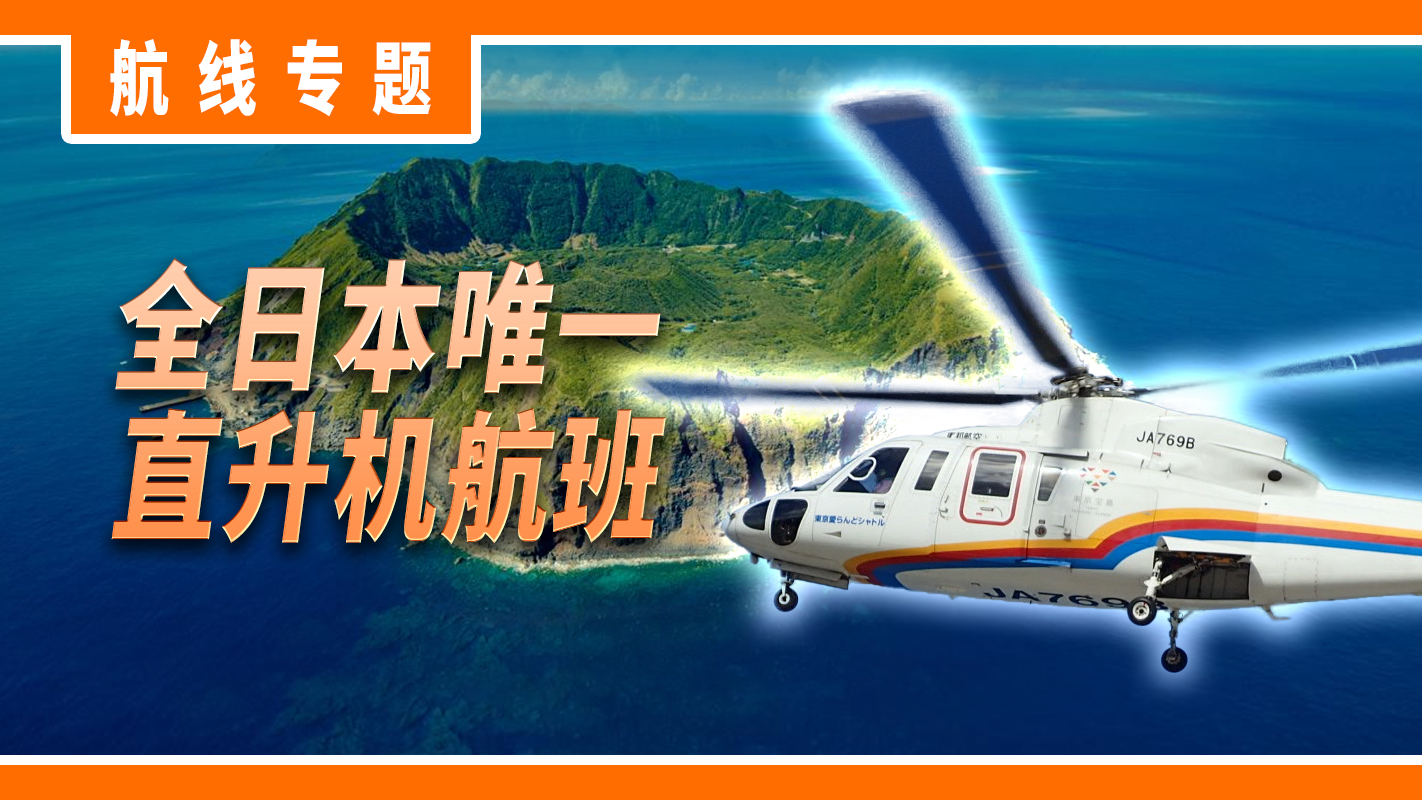
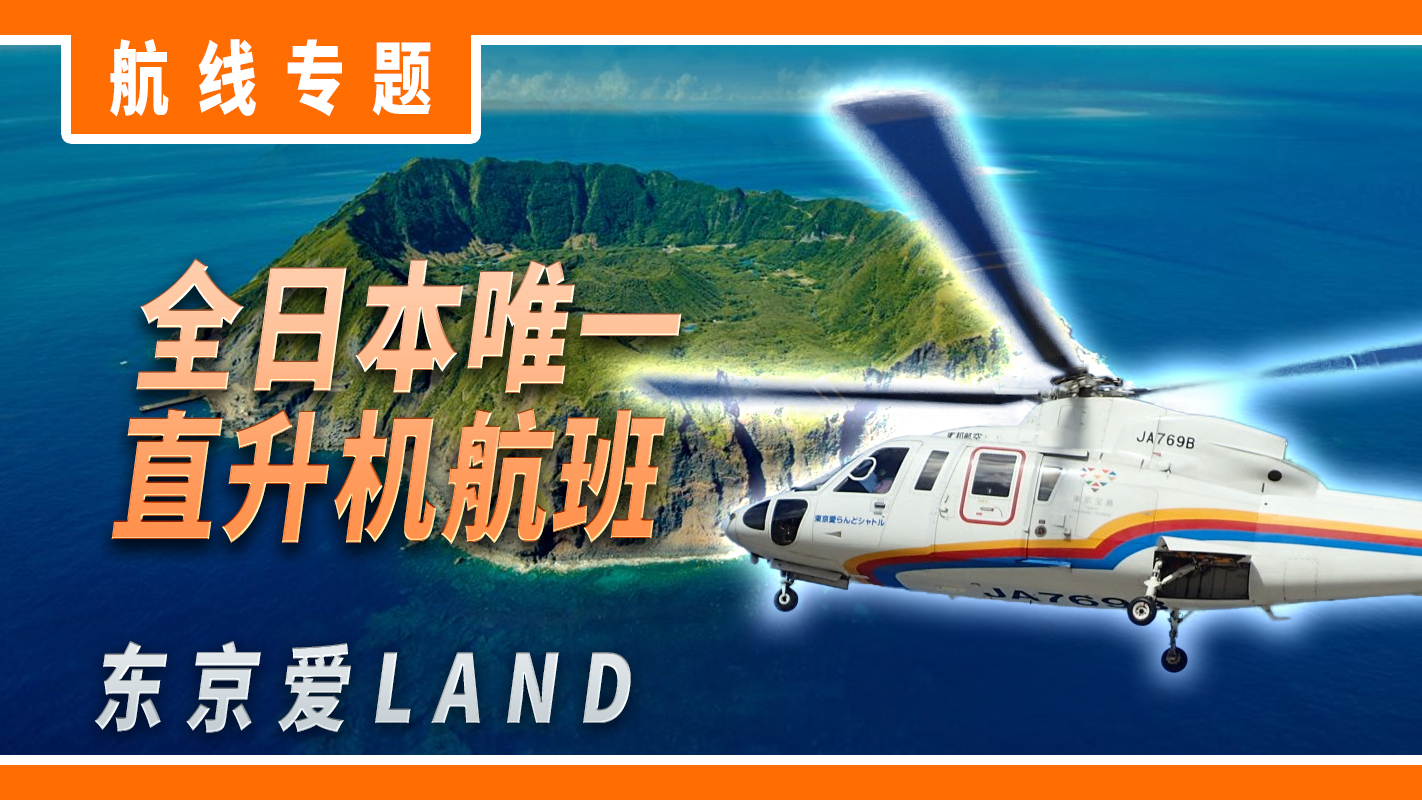
new vid

Changed region(s): [[0.0619, 0.3125, 0.4332, 0.5312], [0.0619, 0.7812, 0.4641, 0.9375], [0.4641, 0.375, 0.4951, 0.4375]]

diff --git a/data/videos.ts b/data/videos.ts
@@ -3,6 +3,22 @@ import { VideoItem } from '@types';
 const videos: VideoItem[] = [
     {
         name: {
+            zh: '新闻: 4K30帧 & 新UI & 德国更新 & 超音速？',
+        },
+        des: {
+            zh: '在本周早些时候的 Xbox E3 加场直播以及模拟飞行官方的 Twitch 直播中，项目负责人 Jorg Neumann 透露了有关 XBOX 版，以及 PC 版更新的更多信息。',
+        },
+        thumbnailOriginal: './thumbnails/20210621.jpg',
+        link: {
+            youtube: 'https://youtu.be/6z7U6HVbbEg',
+            bilibili: 'https://www.bilibili.com/video/BV15U4y1G7Aj',
+        },
+        tag: ['news'],
+        release: new Date('2021-06-21T10:30:00+0800').valueOf(),
+    },
+
+    {
+        name: {
             zh: '航线介绍: 全日本唯一直升机航班 - 东京爱LAND',
         },
         des: {
